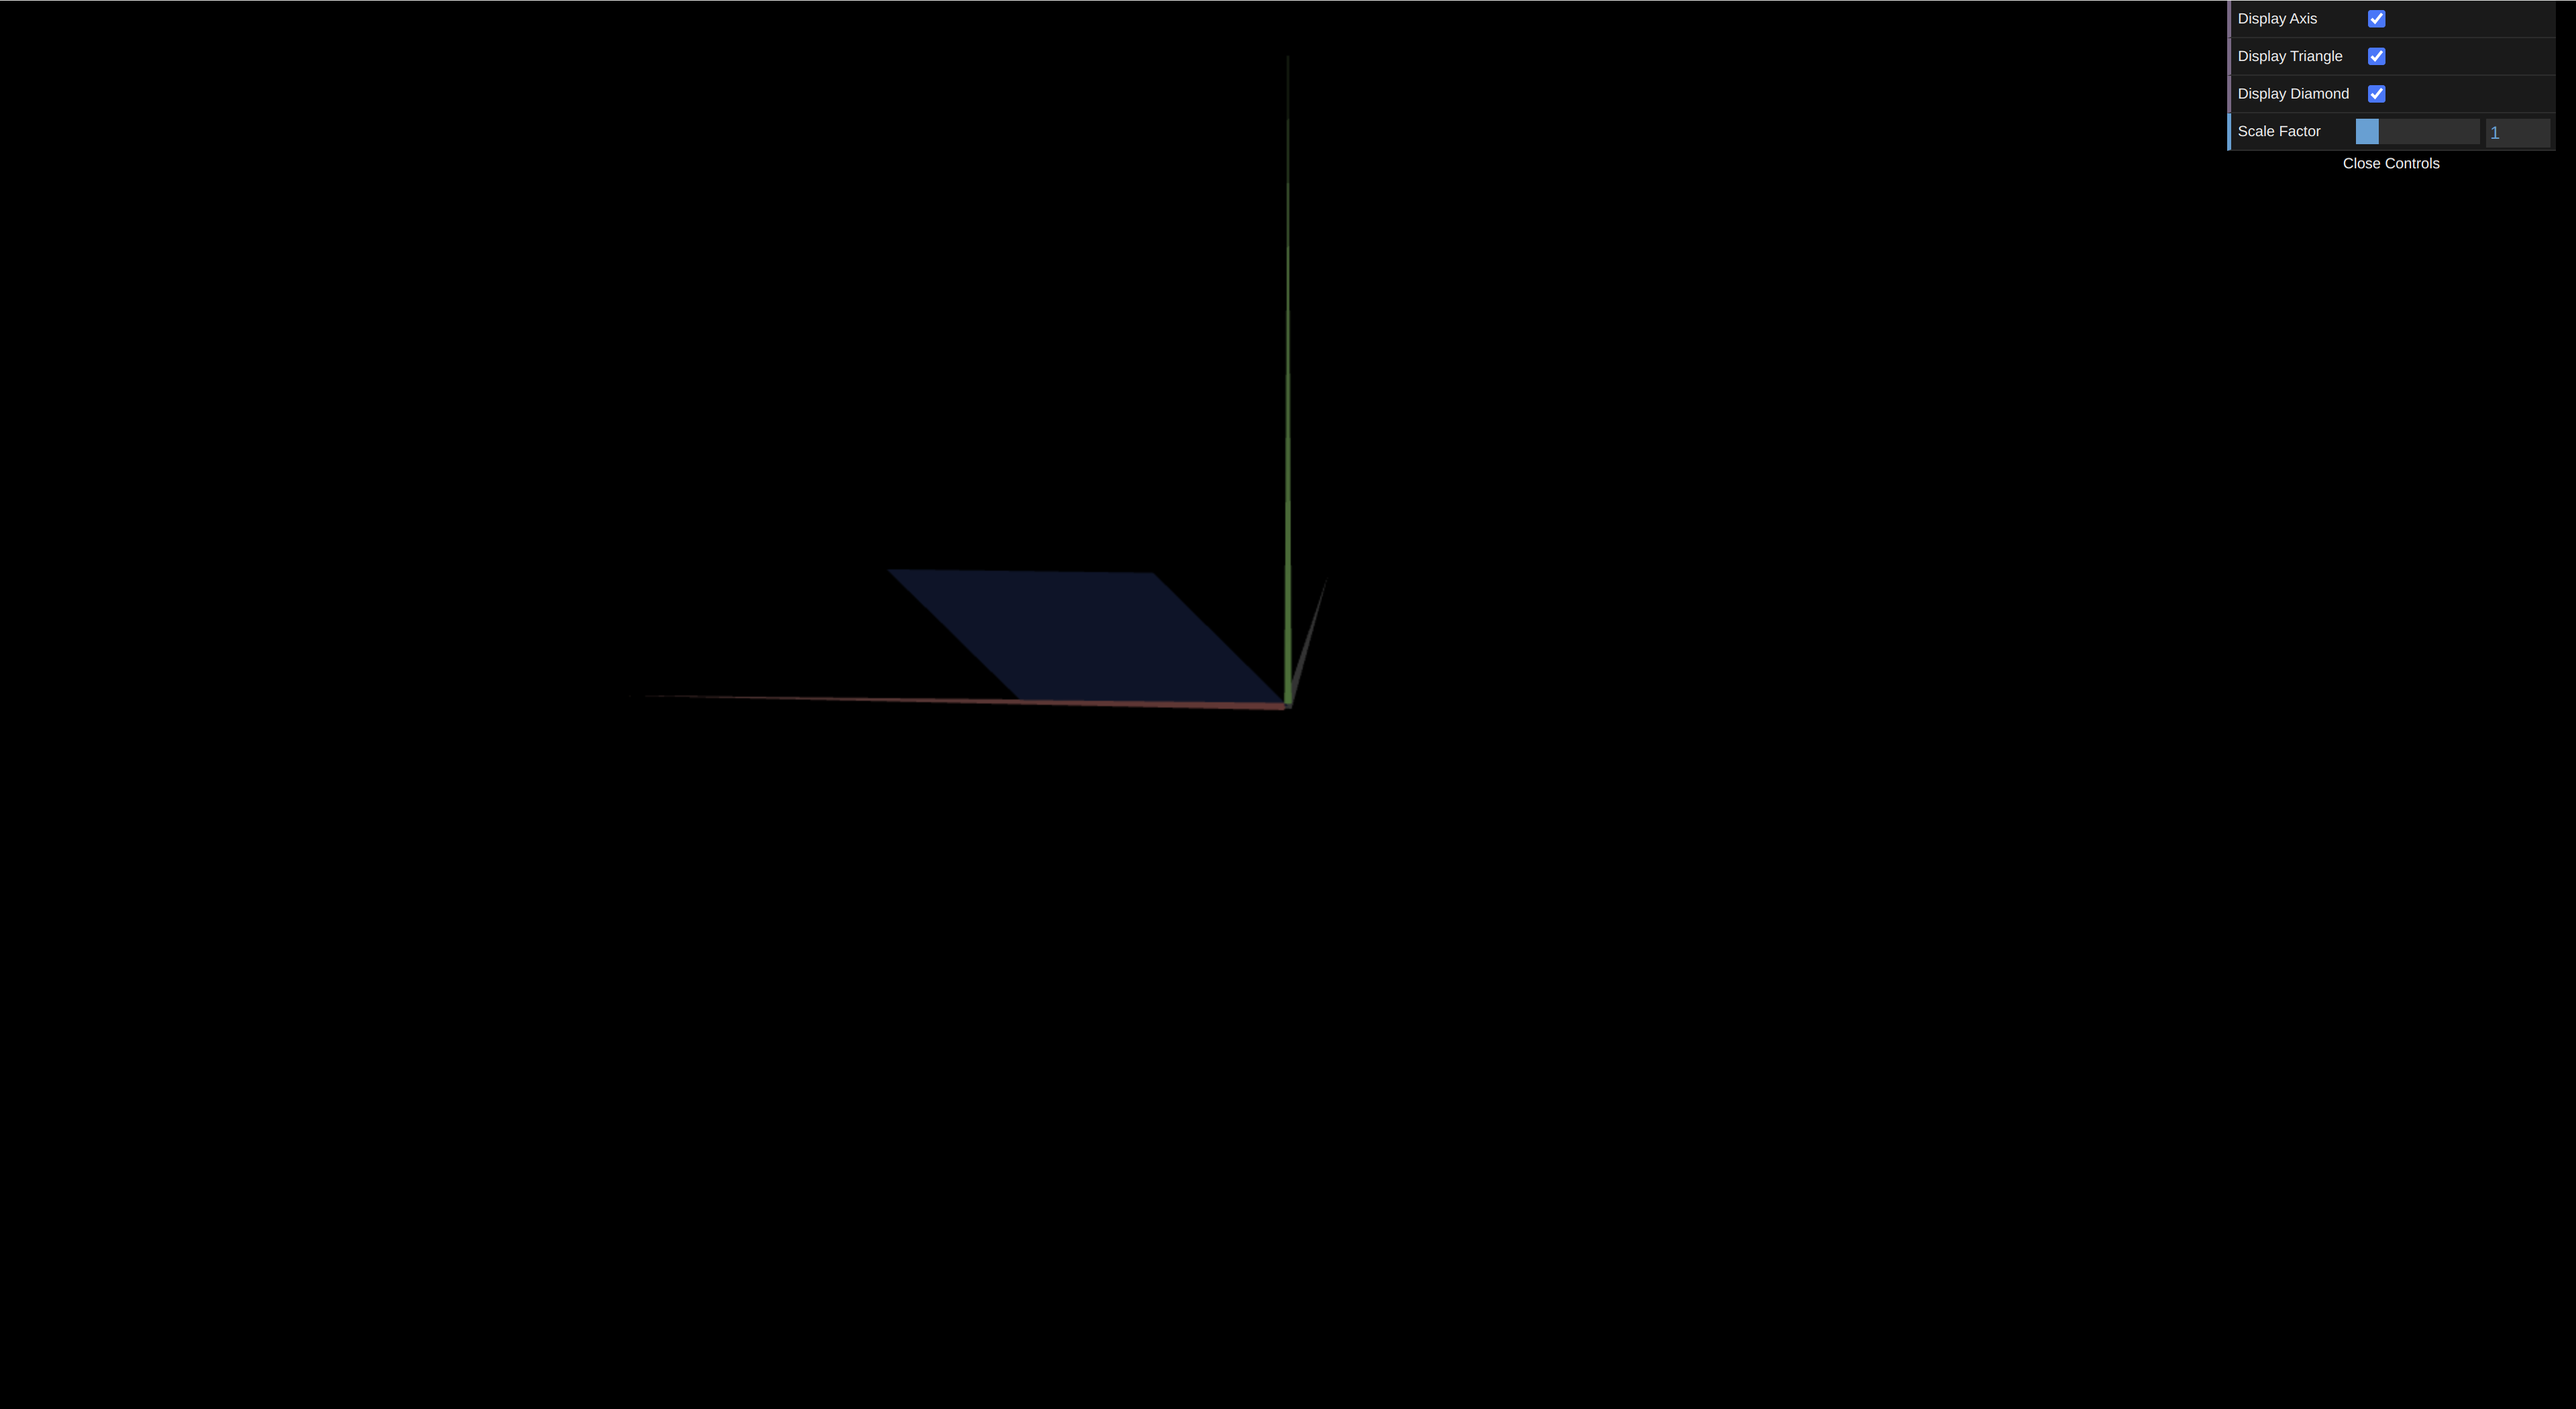
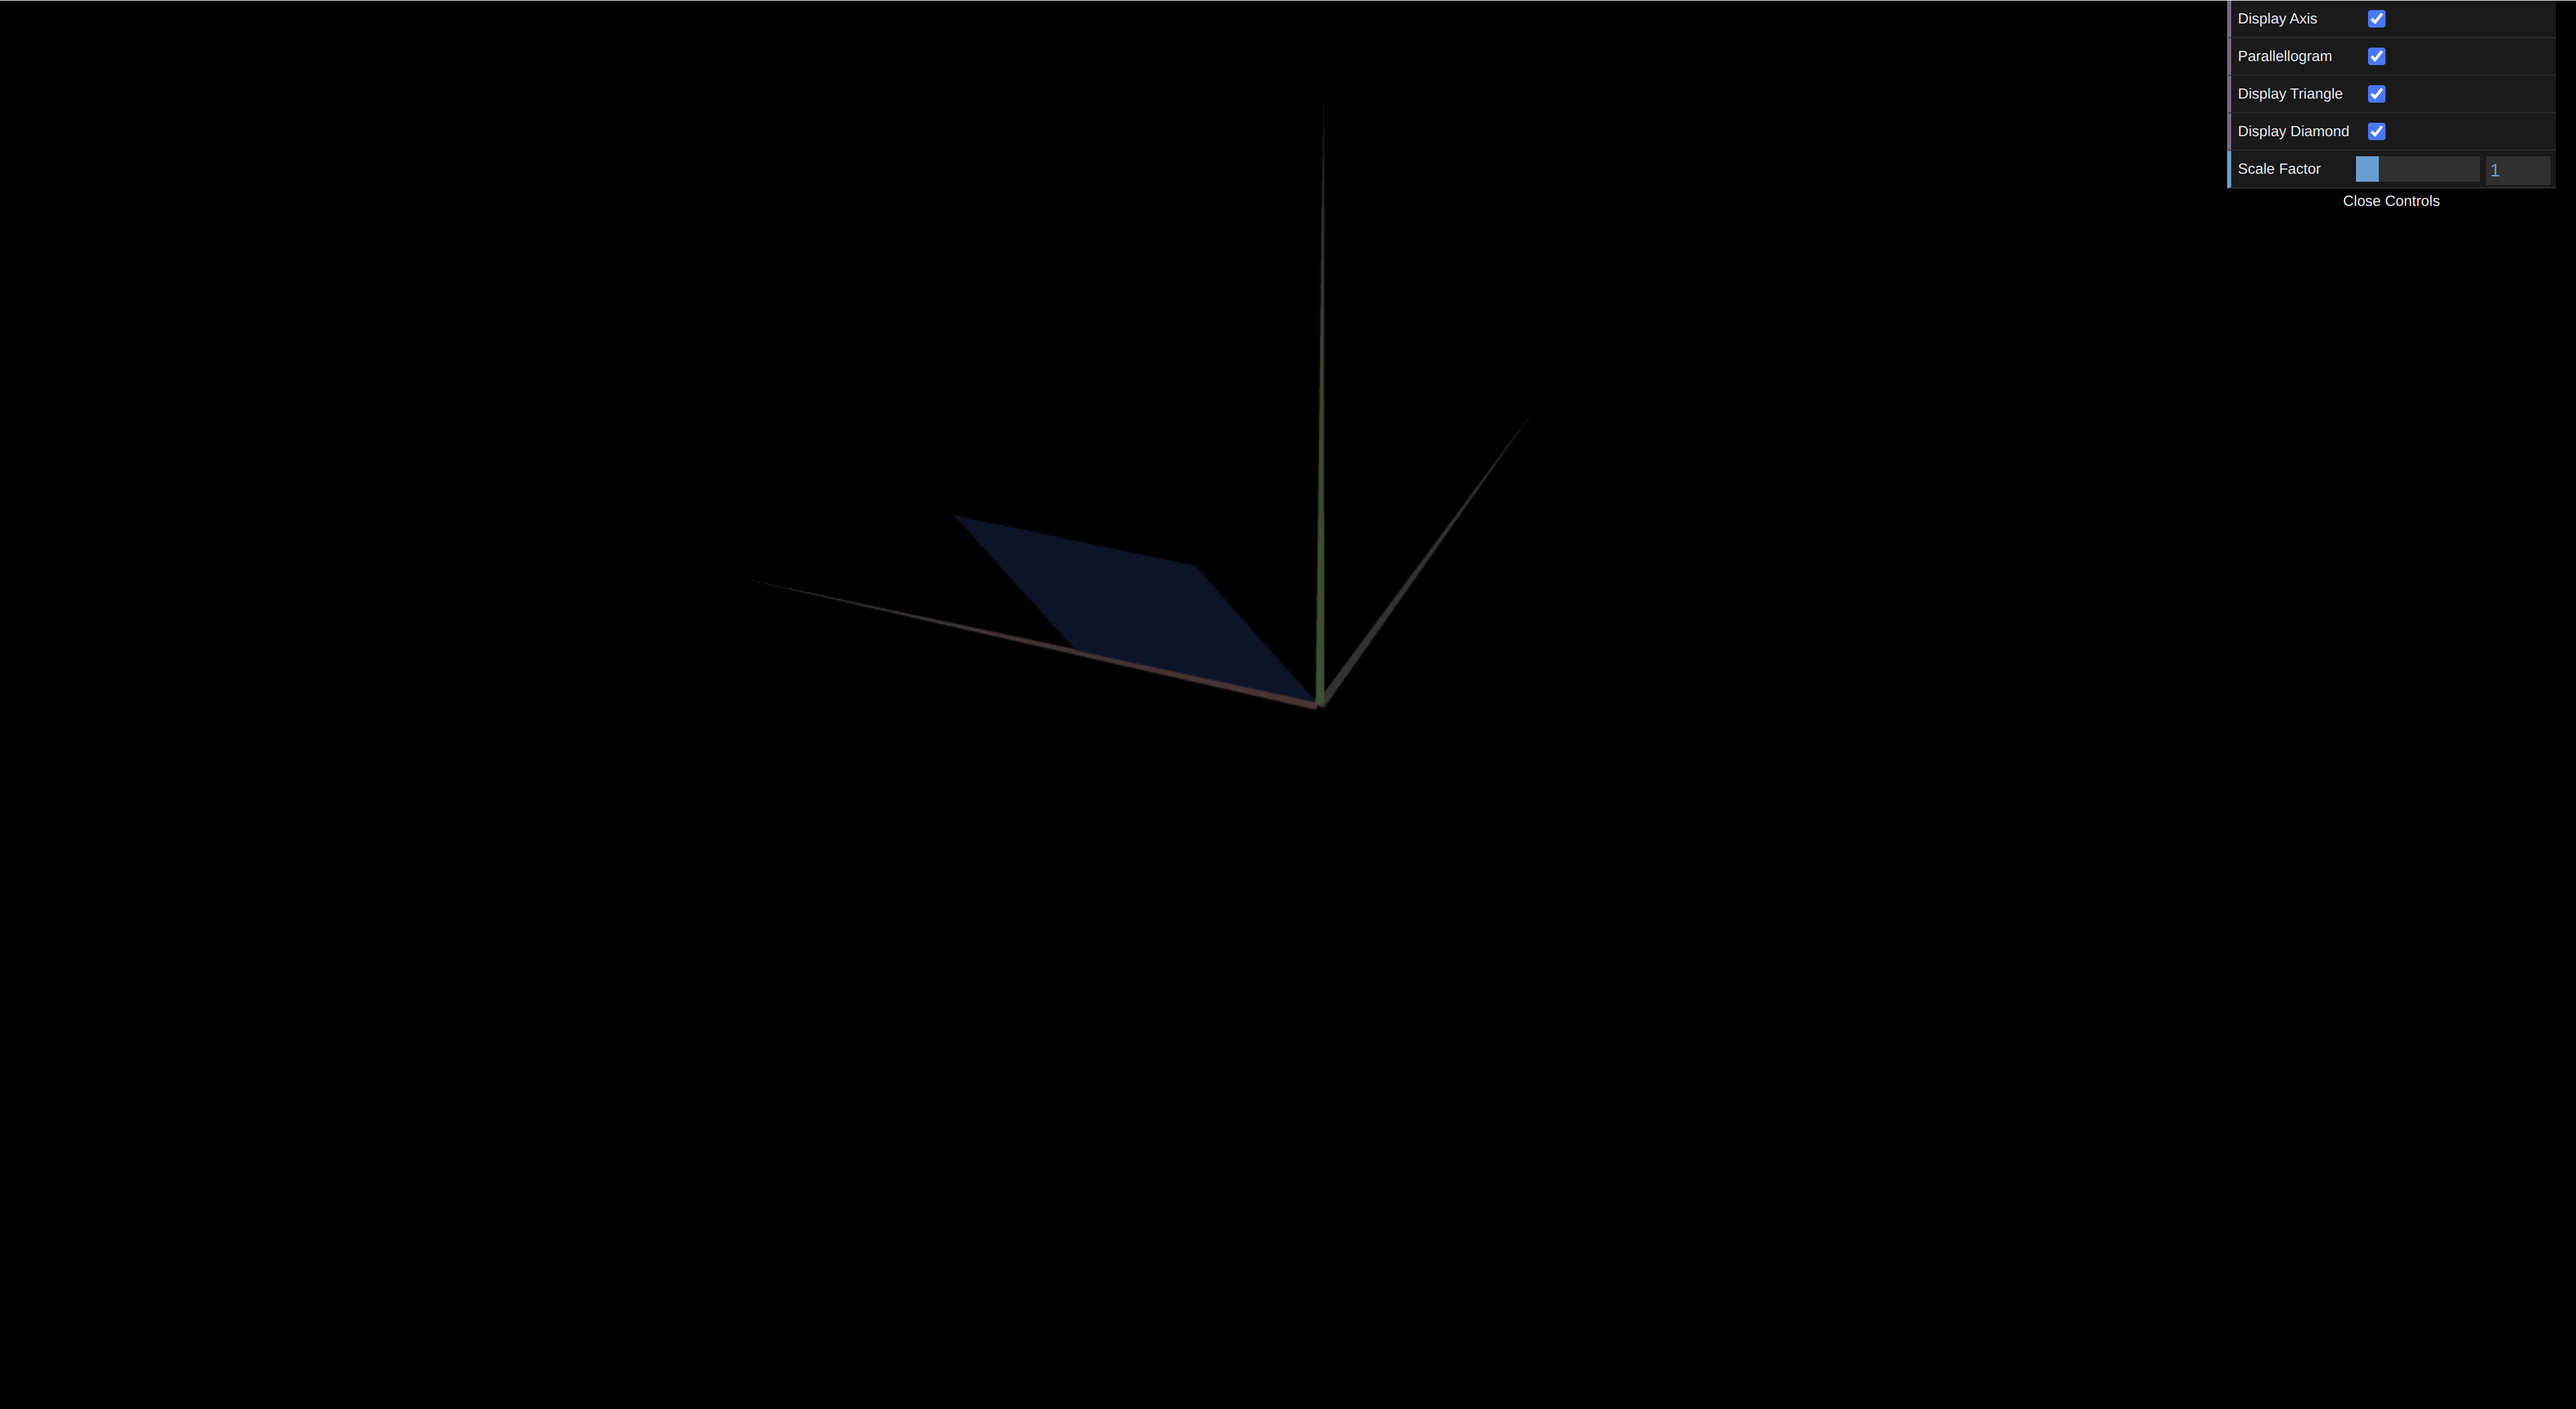
Added the Display Parallellogram that wasnt implemented and quick fix

Changed region(s): [[0.3438, 0.3094, 0.5312, 0.5259], [0.8438, 0.0309, 1.0, 0.1547]]

diff --git a/tp1/MyScene.js b/tp1/MyScene.js
@@ -34,11 +34,13 @@ export class MyScene extends CGFscene {
     this.parallellogram = new MyParallelogram(this);
     this.myTriangleSmall = new MyTriangleSmall(this);
     this.myTriangleBig = new MyTriangleBig(this);
+
     //Objects connected to MyInterface
     this.displayAxis = true;
     this.scaleFactor = 1;
     this.displayTriangle = true;
     this.displayDiamond = true;
+    this.displayParallellogram = true;
   }
   initLights() {
     this.lights[0].setPosition(15, 2, 5, 1);
@@ -75,11 +77,6 @@ export class MyScene extends CGFscene {
     // Draw axis
     if (this.displayAxis) this.axis.display();
 
-    if (this.displayTriangle) this.triangle.display();
-
-    if (this.displayDiamond) this.diamond.display();
-
-
     this.setDefaultAppearance();
 
     var sca = [
@@ -105,9 +102,15 @@ export class MyScene extends CGFscene {
 
     // ---- BEGIN Primitive drawing section
 
-    this.parallellogram.display();
-    this.myTriangleSmall.display();
-    this.myTriangleBig.display();
+    if (this.displayTriangle) this.triangle.display();
+
+    if (this.displayDiamond) this.diamond.display();
+
+    if(this.displayParallellogram) this.parallellogram.display();
+
+    // this.myTriangleSmall.display();
+    
+    // this.myTriangleBig.display();
 
     // ---- END Primitive drawing section
   }

diff --git a/tp1/MyInterface.js b/tp1/MyInterface.js
@@ -20,6 +20,8 @@ export class MyInterface extends CGFinterface {
         //Checkbox element in GUI
         this.gui.add(this.scene, 'displayAxis').name('Display Axis');
 
+        this.gui.add(this.scene, 'displayParallellogram').name('Parallellogram');
+
         this.gui.add(this.scene, 'displayTriangle').name('Display Triangle');
 
         this.gui.add(this.scene, 'displayDiamond').name('Display Diamond');
